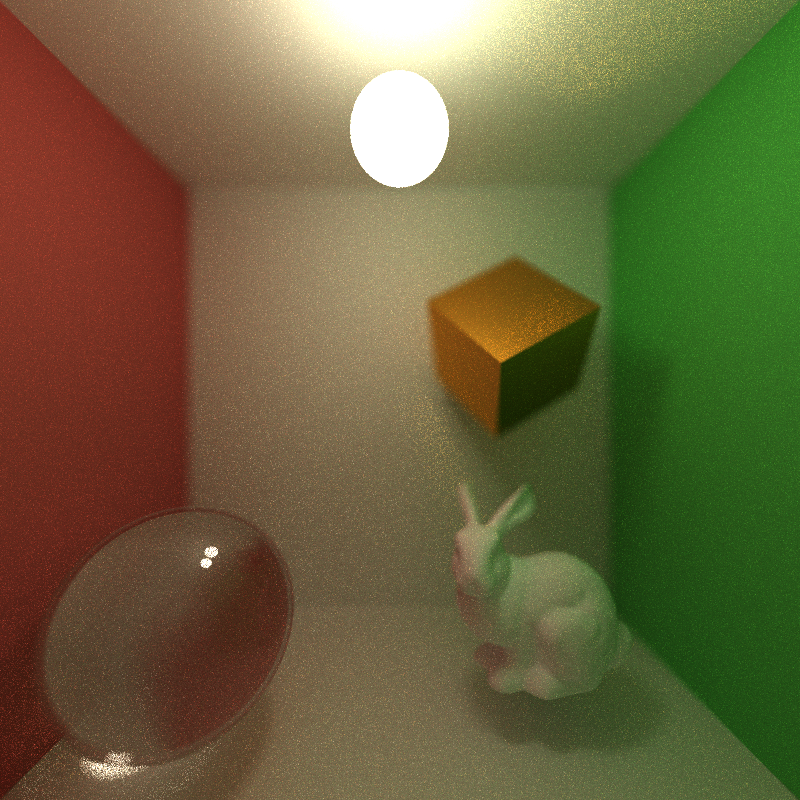
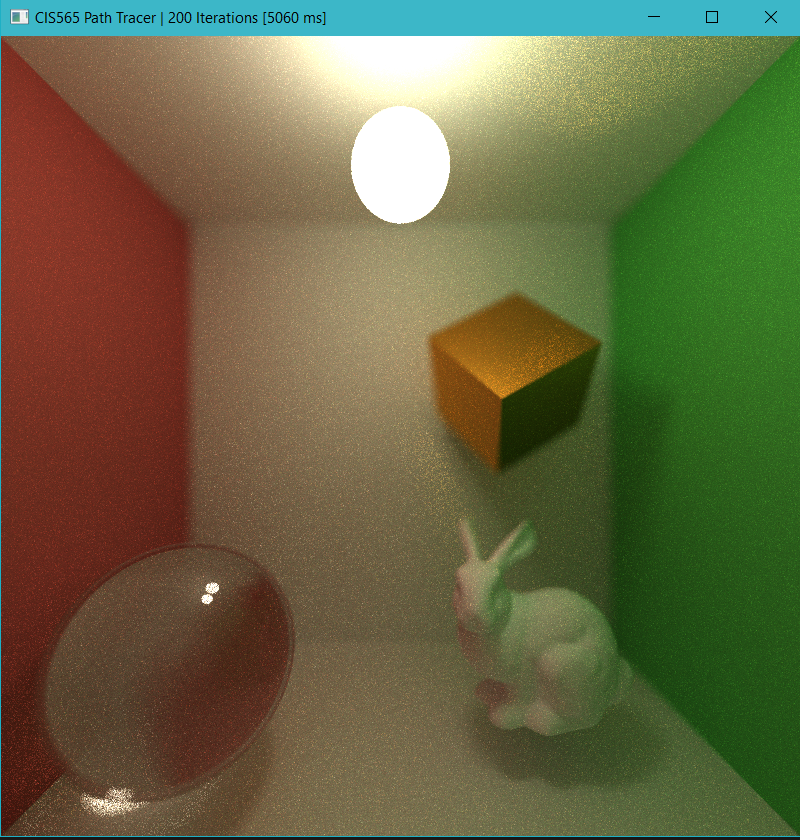
readme

diff --git a/src/preview.cpp b/src/preview.cpp
@@ -10,6 +10,9 @@ GLuint displayImage;
 
 GLFWwindow *window;
 
+extern RenderState *renderState;
+extern double numPathsFinished;
+
 std::string currentTimeString() {
     time_t now;
     time(&now);
@@ -167,13 +170,24 @@ bool init() {
     return true;
 }
 
+double computePathsPerIteration()
+{
+	numPathsFinished = 0.0;
+	for (const auto &pixel : renderState->image)
+	{
+		numPathsFinished += pixel.w;
+	}
+	return numPathsFinished / static_cast<double>(iteration);
+}
+
 void mainLoop() {
 	while (!glfwWindowShouldClose(window)) {
 		glfwPollEvents();
 		runCuda();
 
 		string title = "CIS565 Path Tracer | " + utilityCore::convertIntToString(iteration) + " Iterations ["
-			+ utilityCore::convertIntToString(iterationTimeMs) + " ms]";
+			+ utilityCore::convertIntToString(iterationTimeMs) + " ms] [" +
+			utilityCore::convertDoubleToString(computePathsPerIteration()) + "ppi]";
         glfwSetWindowTitle(window, title.c_str());
 
         glBindBuffer(GL_PIXEL_UNPACK_BUFFER, pbo);

diff --git a/src/utilities.cpp b/src/utilities.cpp
@@ -8,6 +8,7 @@
 #include <glm/gtc/matrix_inverse.hpp>
 #include <iostream>
 #include <cstdio>
+#include <iomanip>
 
 #include "utilities.h"
 
@@ -33,6 +34,13 @@ std::string utilityCore::convertIntToString(int number) {
     std::stringstream ss;
     ss << number;
     return ss.str();
+}
+
+std::string utilityCore::convertDoubleToString(double number)
+{
+	std::stringstream ss;
+	ss << std::fixed << std::setprecision(2) << number;
+	return ss.str();
 }
 
 glm::vec3 utilityCore::clampRGB(glm::vec3 color) {

diff --git a/src/utilities.h b/src/utilities.h
@@ -24,5 +24,6 @@ namespace utilityCore {
     extern std::vector<std::string> tokenizeString(std::string str);
     extern glm::mat4 buildTransformationMatrix(glm::vec3 translation, glm::vec3 rotation, glm::vec3 scale);
     extern std::string convertIntToString(int number);
+	extern std::string convertDoubleToString(double number);
     extern std::istream& safeGetline(std::istream& is, std::string& t); //Thanks to http://stackoverflow.com/a/6089413
 }

diff --git a/src/main.cpp b/src/main.cpp
@@ -23,6 +23,7 @@ Scene *scene;
 RenderState *renderState;
 int iteration;
 float iterationTimeMs;
+double numPathsFinished;
 
 int width;
 int height;
